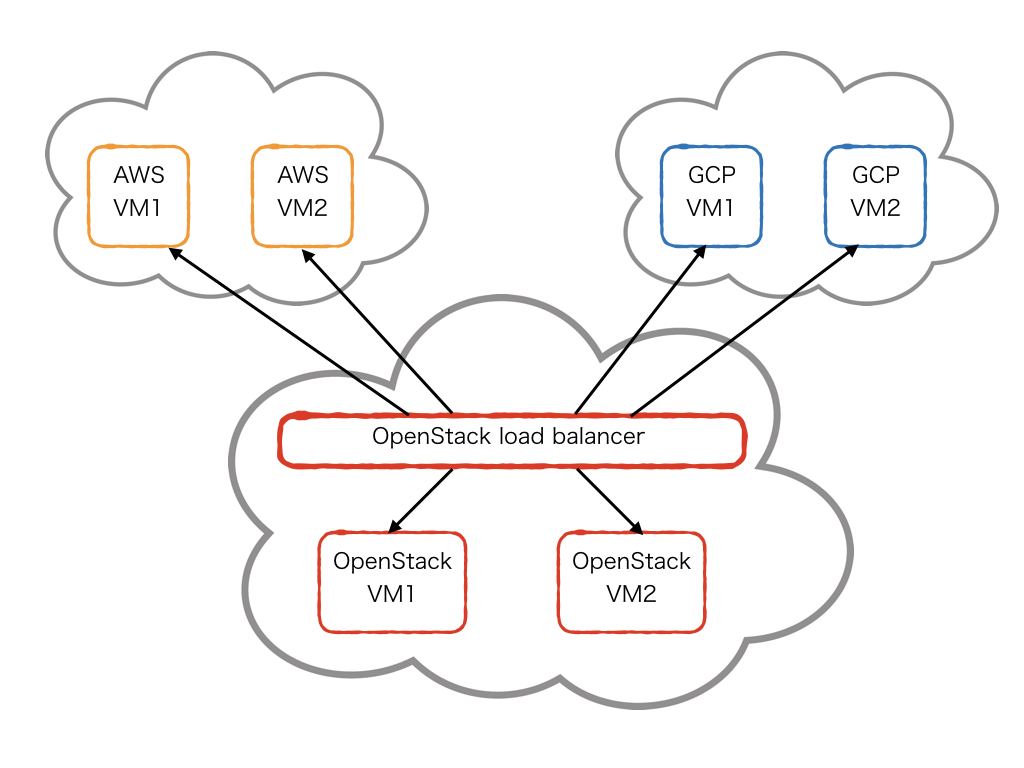
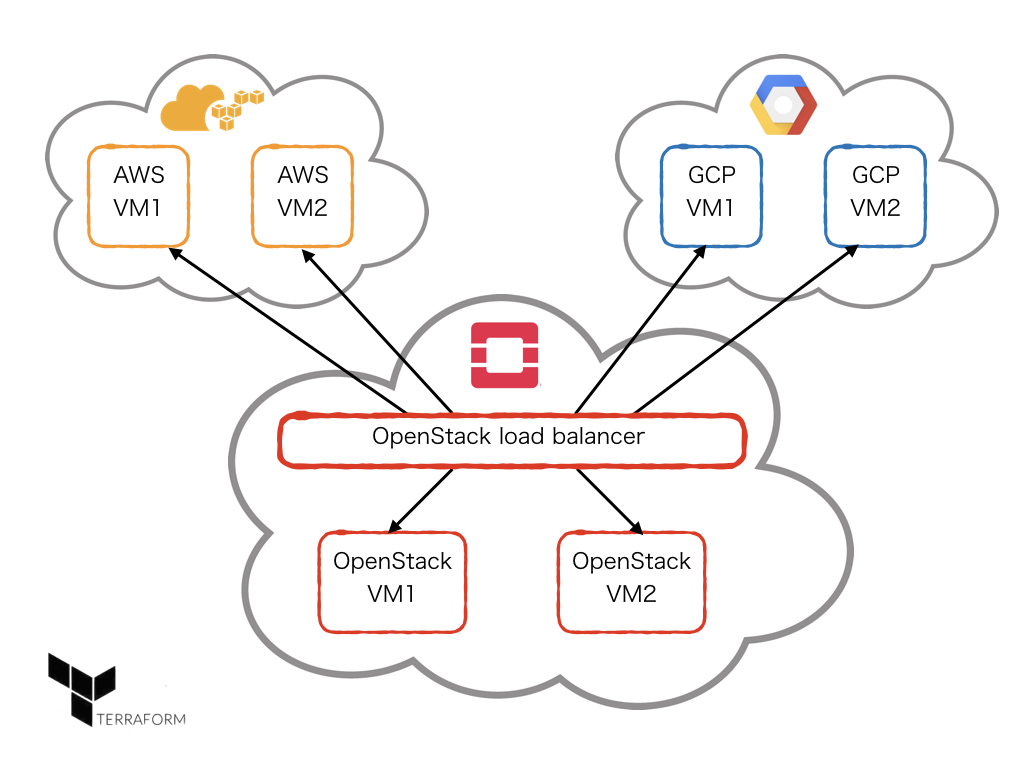
Updated picture and text.

diff --git a/readme.md b/readme.md
@@ -23,7 +23,7 @@ At the end, don't forget to destroy the created instances to prevent over-spendi
 terraform destroy
 ```
 
-![GitHub Logo](Terraform_demo.jpeg)
+![GitHub Logo](terraform_demo.jpeg)
 
 ## Requirements
 
@@ -43,6 +43,7 @@ https://github.com/apenwarr/sshuttle/blob/master/docs/how-it-works.rst
 #### AWS
 
 Terraform will auto-detect your credentials if you have the aws command line toolset installed. Otherwise you may need to export some variables to the environment:
+
 https://github.com/apenwarr/sshuttle/blob/master/docs/how-it-works.rst
 
 #### GCP
@@ -51,4 +52,5 @@ You will need a project and the appropriate credentials.
 1) Create a project for terraform and find its ID.
    You can find the ID by clicking on the name of the project in the GCP console. That will take you to a screen listing all projects and their IDs.
 2) Credentials JSON file. See Hashicorp's page on GCP for details on how to do it. You will have to set the path to this file in the provider section of main.tf.
-   https://www.terraform.io/docs/providers/google/index.html
+
+https://www.terraform.io/docs/providers/google/index.html

diff --git a/03_OpenStack_AWS_GCP/readme.md b/03_OpenStack_AWS_GCP/readme.md
@@ -1,0 +1,22 @@
+## Hybrid cloud environment
+
+You will need access to all clouds (see the main page for more information on that).
+
+![GitHub Logo](../terraform_demo.jpeg)
+
+This is a terraform demo created to show how to connect different cloud systems using terraform.
+
+The architecture of the system itself is extremely simple, just a bunch of virtual machines with a basic webpage connected to an OpenStack load balancer.
+
+Create the instances by applying the terraform files.
+```bash
+terraform apply
+```
+After all the instances are initialized, you can see how the load balancer is going through all the created instances with the "multi_curl" script.
+```bash
+../multi_curl
+```
+At the end, don't forget to destroy the created instances to prevent over-spending.
+```bash
+terraform destroy
+```
